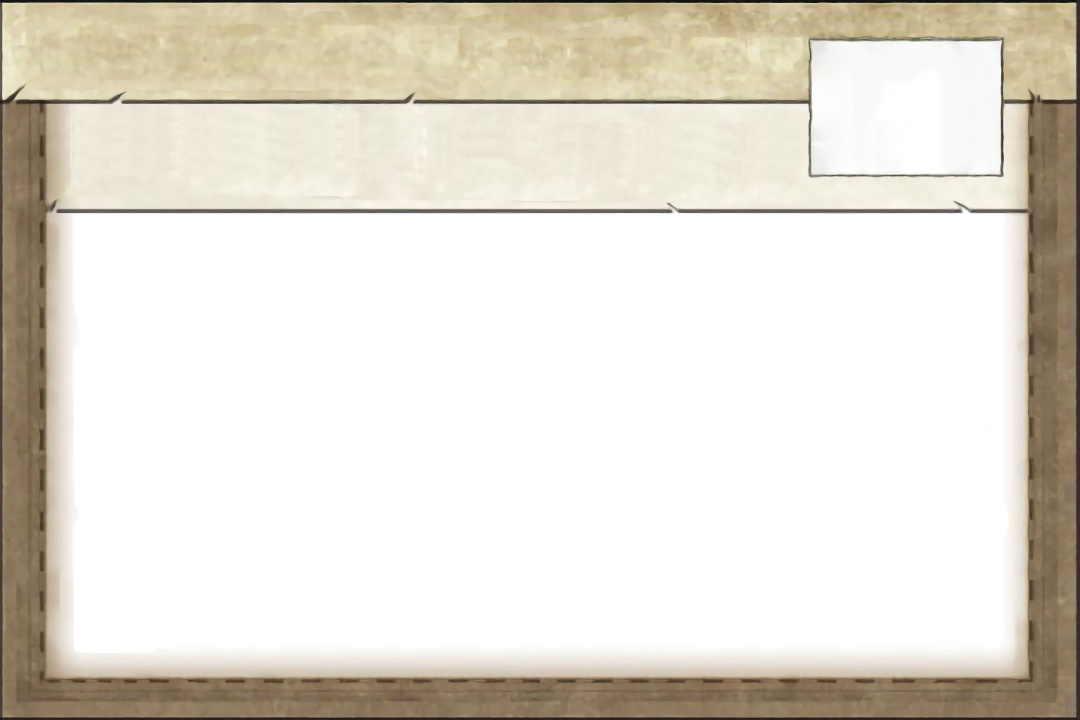
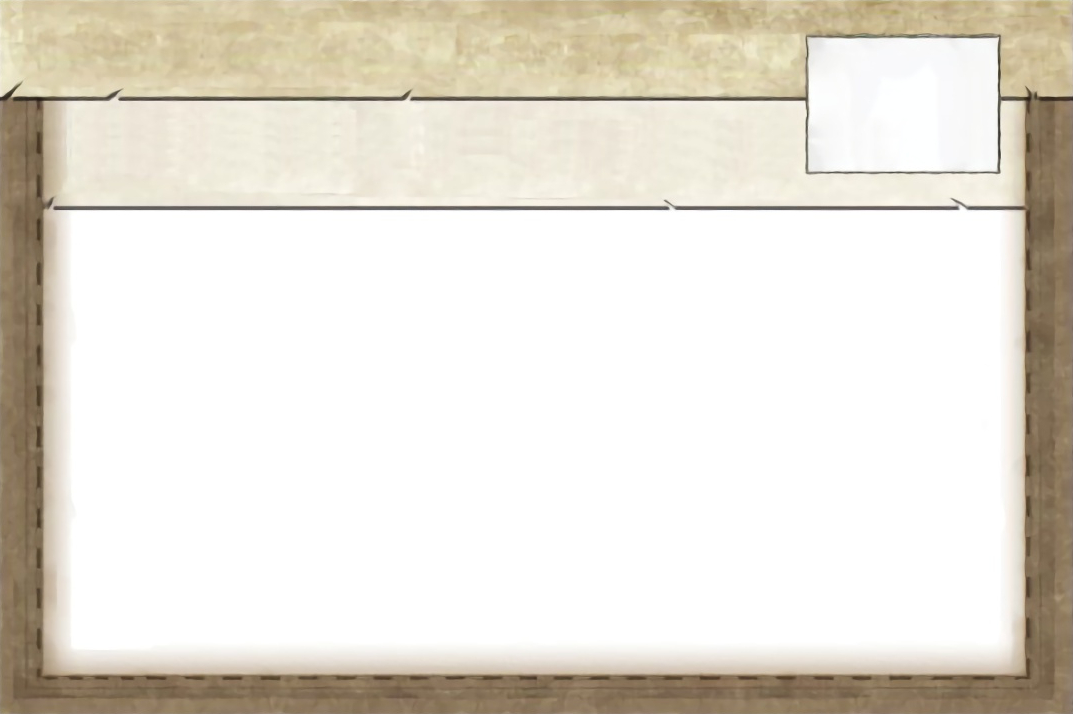
Updates to adversary board (new frame)

Changed region(s): [[0.0, 0.0, 1.0, 1.0]]

diff --git a/_global/css/adversary.css b/_global/css/adversary.css
@@ -27,11 +27,9 @@ adversary{
   background-image: url(../images/adversary-frame.jpg);
   background-repeat: no-repeat;
   background-size: cover;
-  width:575px;
-  height:384px;
   width:800px;
   height:534px;
-
+  border-radius: 15.1px;
   position:relative;
 }
 
@@ -41,7 +39,7 @@ adversary-title{
   left:0px;
   top:16px;
   height:44px;
-  width:600px;
+  width:603px;
   
   text-align:center;
   line-height: 36px;
@@ -53,10 +51,10 @@ adversary-title{
 .flag{
   display:block;
   position:absolute;
-  left:602px;
-  top:30px;
-  height:99px;
-  width:140px;
+  left: 604px;
+  top: 28px;
+  height: 100px;
+  width: 143px;
 }
 
 adversary-base-dif{
@@ -78,7 +76,7 @@ top-info{
   display:block;
   position:absolute;
   left:35px;
-  top:77px;
+  top:76px;
   height:78px;
   width:566px;
 
@@ -107,6 +105,14 @@ loss-condition{
 escalation{
   margin-right:5px;
   flex:1 0 220px;
+}
+
+header-level{
+	margin-bottom: -15px;
+    margin-left: 0px;
+    text-align: center;
+	    display: flex;
+    justify-content: center;
 }
 
 adversary-levels{
@@ -141,18 +147,21 @@ adversary-levels header{
 }
 
 adversary-levels header div:not(:last-child){
-  padding-right:20px;
+
 }
 
 adversary-levels header div:nth-child(1),
+adversary-levels header header-level:nth-child(1),
 adversary-levels level div:nth-child(1){
   flex:0 0 50px;
+  width: 50px;
 }
 
 adversary-levels header div:nth-child(2),
 adversary-levels level div:nth-child(2){
   white-space: nowrap;
   flex:0 0 90px;
+   text-align:center;
 }
 
 adversary-levels header div:nth-child(3),
@@ -173,7 +182,6 @@ adversary-levels level div:first-child{
 }
 
 adversary-levels level div:nth-child(2){
-  padding-left:7px;
 }
 
 adversary-levels level div:last-child{
@@ -195,8 +203,15 @@ level-info{
   color:rgb(100, 100, 100);
 }
 
-.level-difficulty{
+div.level-difficulty{
   font-size:8px;
+}
+
+level-difficulty{
+    font-size: 9px;
+    position: relative;
+    top: 2px;
+    font-family: 'Lato SemiBold';
 }
 
 icon{

diff --git a/_global/js/adversary.js b/_global/js/adversary.js
@@ -10,6 +10,10 @@ window.onload = function startMain(){
 	
 	var html = document.querySelectorAll('adversary')[0].innerHTML;
     document.querySelectorAll('adversary')[0].innerHTML = replaceIcon(html);
+	setTimeout(() => {resize()}, 200);
+}
+
+function resize(){
 	dynamicSizing(document.querySelectorAll('top-info')[0],55)
 }
 
@@ -43,7 +47,7 @@ html = `
     </top-info>
     <adversary-levels>
       <header>
-        <div>Level</div>
+        <header-level>Level<br>(Difficulty)</header-level>
         <div>Fear Cards</div>
         <div>Game Effects <span class="cumulative">(cumulative)</span></div>
       </header>`;
@@ -77,7 +81,7 @@ function buildLevel(quickLevel){
 	}
 	fearCards=fearCardList.join('/')
     levelHTML =`<level>
-        <div>${quickLevel.tagName.at(-1)}<span class="level-difficulty">(${quickLevel.getAttribute('difficulty')})</span></div>
+        <div>${quickLevel.tagName.at(-1)}<level-difficulty class="level-difficulty">(${quickLevel.getAttribute('difficulty')})</level-difficulty></div>
         <div>${fearCardNum} (${fearCards})</div>
         <div>
           <strong>${quickLevel.getAttribute('name')}:</strong> ${quickLevel.getAttribute('rules')}

diff --git a/My Custom Content/My Adversary/adversary.html b/My Custom Content/My Adversary/adversary.html
@@ -56,7 +56,7 @@
 	difficulty="6"
 	fear-cards="4,5,5"
 	name="Shopping Mall"
-	rules="You cannot destroy or drown {city} 
+	rules="You cannot destroy {city} 
           unless it is the last remaining Invader in the land. Replace and remove works as usual.<br />
           <level-info>(This includes destroy by damage but you can still do partial damage.)</level-info>"
 	></level-4>
